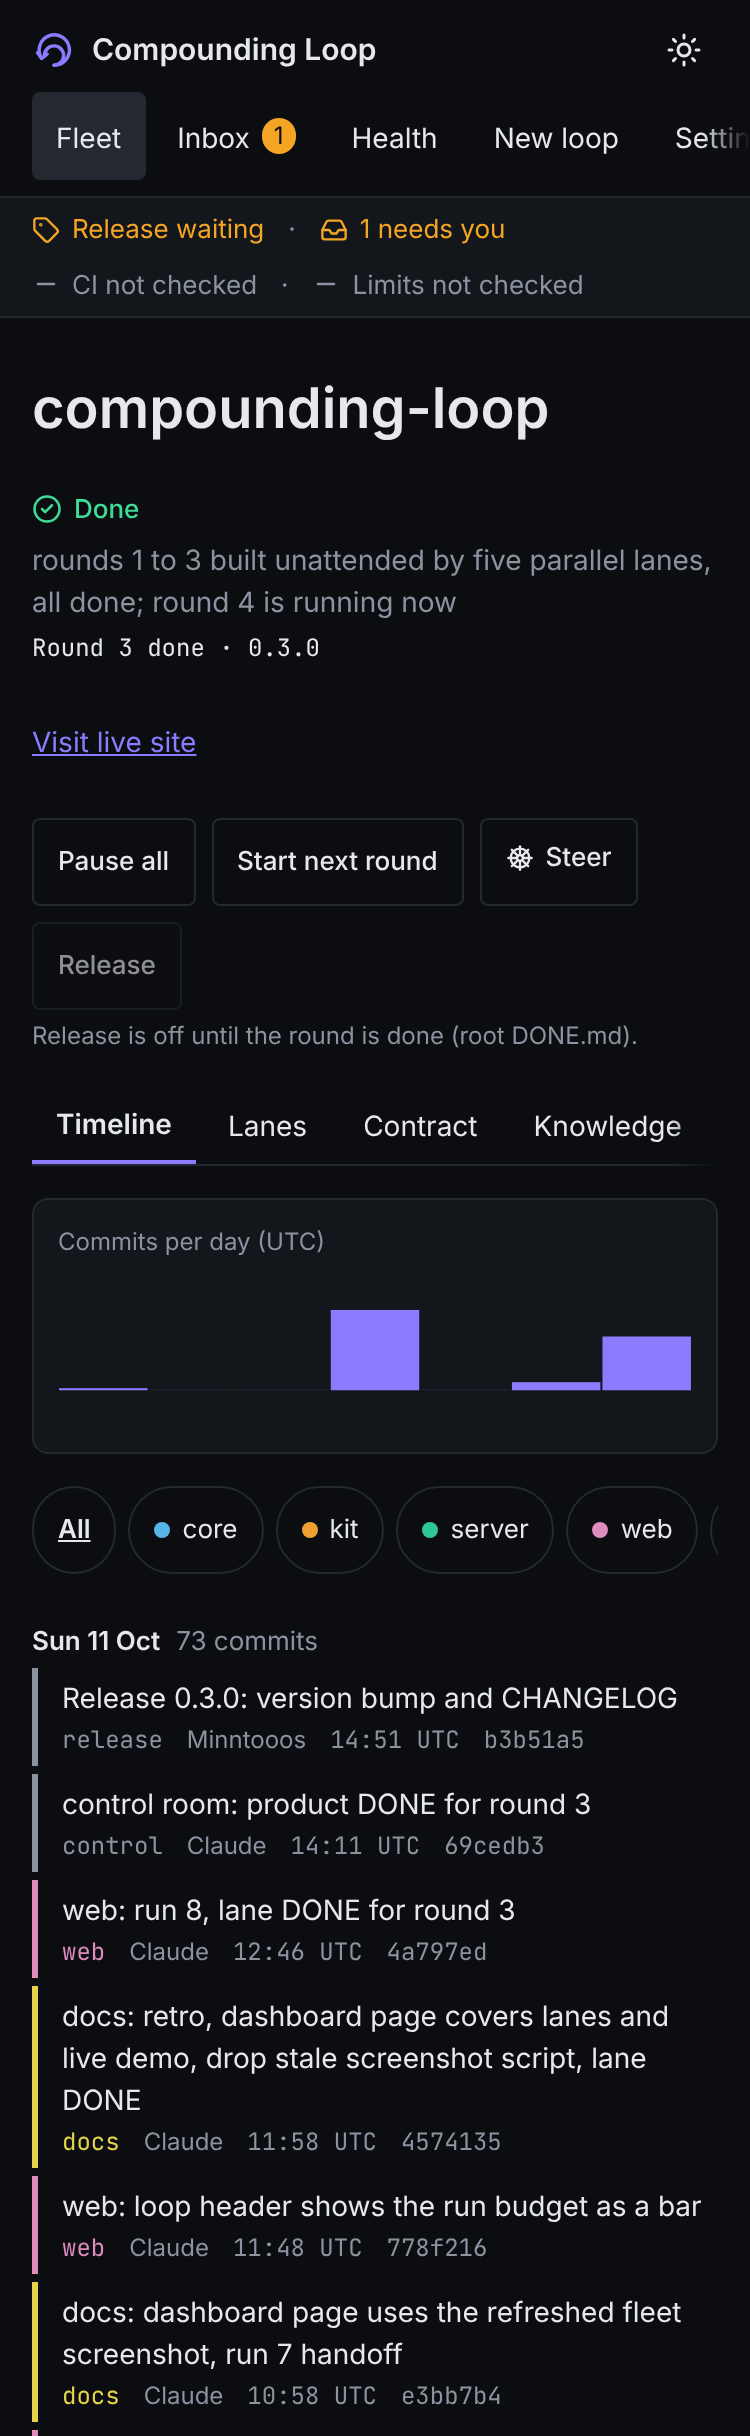
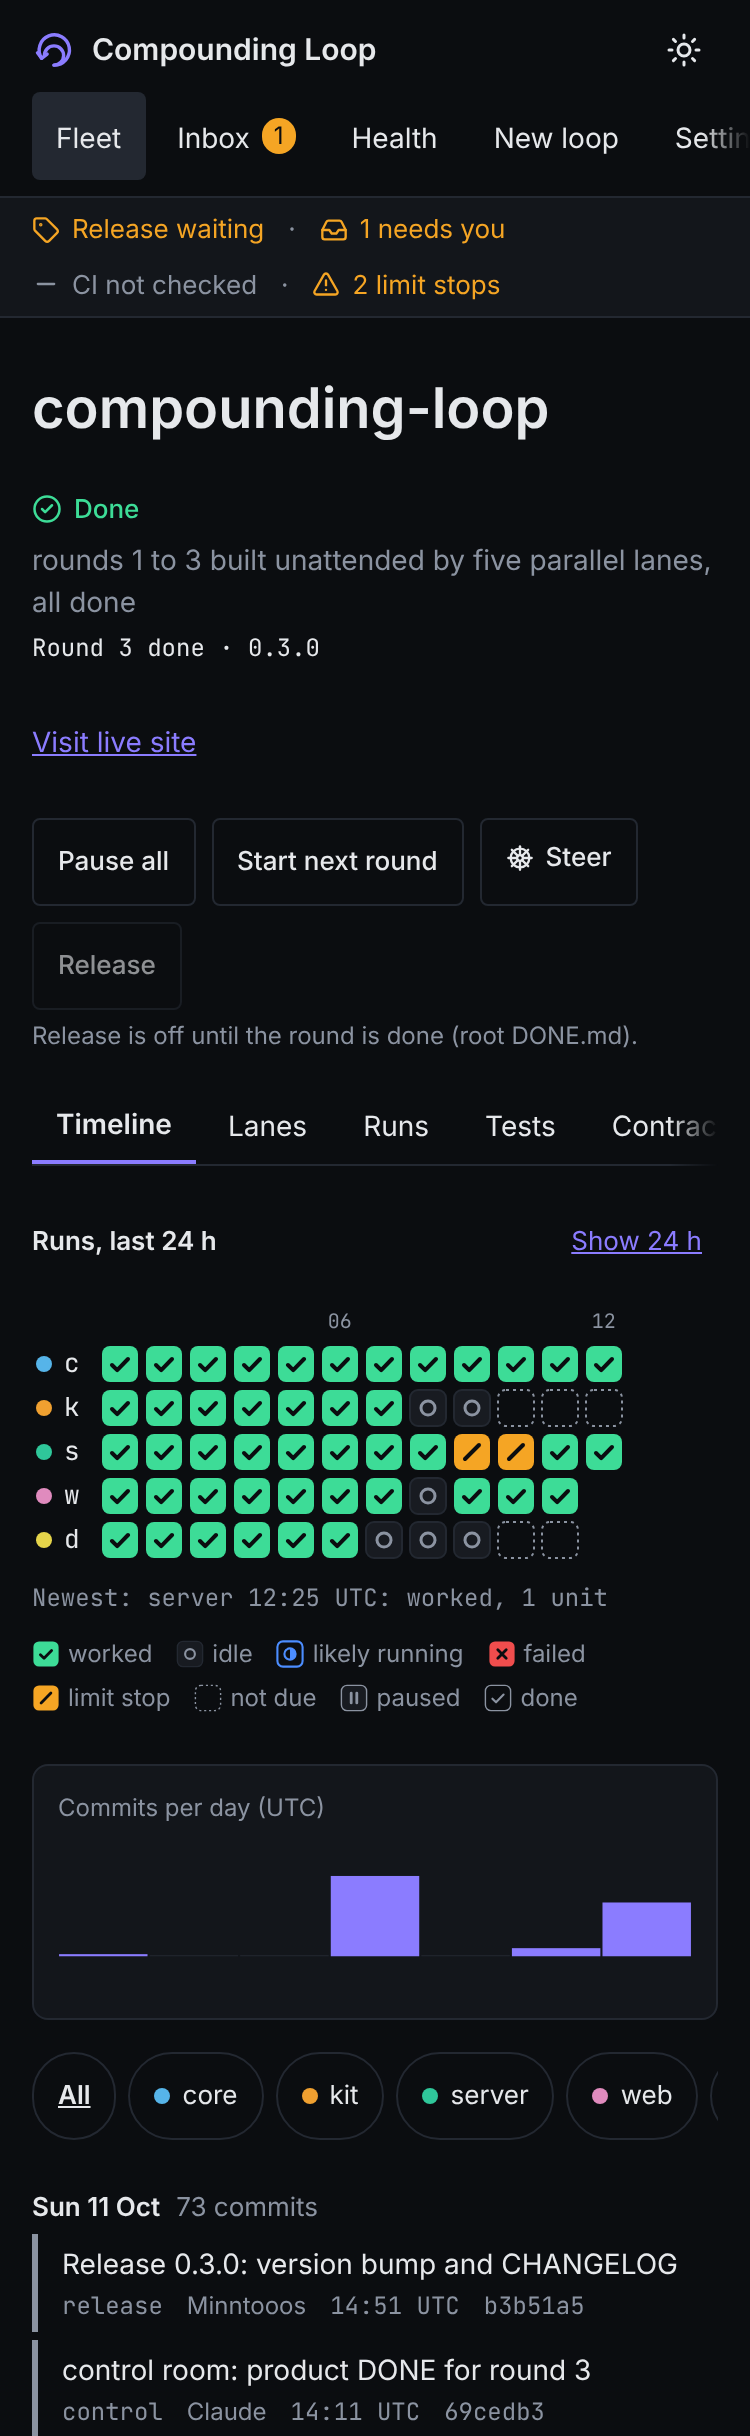
web: docs screenshots show the round 5 cockpit (self Lanes tab with Pace, self Runs tab with heat map), re-shot set
Lane: web

diff --git a/tests/e2e/screenshots.spec.ts b/tests/e2e/screenshots.spec.ts
@@ -9,7 +9,9 @@ import { expect, test, type Page } from '@playwright/test';
 // (IDEA.md Round 5 D). docs owns docs/assets/screens and copies them from there.
 // Design-review sets (before/after, 1440 and 375 px @1x, both themes, full page):
 //   SCREENS=1 SCREENS_DIR=web/design/before npx playwright test screenshots --project=laptop
-const screens: Record<string, string> = { fleet: '/', loop: '/loop/proj2', self: '/loop/compounding-loop', inbox: '/inbox', health: '/health', settings: '/settings', new: '/new' };
+const screens: Record<string, string> = { fleet: '/', loop: '/loop/proj2', self: '/loop/compounding-loop', 'self-lanes': '/loop/compounding-loop', 'self-runs': '/loop/compounding-loop', inbox: '/inbox', health: '/health', settings: '/settings', new: '/new' };
+// Loop tabs have no URL; these shots click one (Lanes: Pace, schedule, steer; Runs: the lane × hour heat map).
+const tabs: Record<string, string> = { 'self-lanes': 'Lanes', 'self-runs': 'Runs' };
 const reviewDir = process.env['SCREENS_DIR'];
 const dir = reviewDir ?? join('web', 'design', 'docs');
 const MAX_BYTES = 400 * 1024;
@@ -51,9 +53,14 @@ for (const shot of shots) {
         const page = await context.newPage();
         // Shoot demo mode as a visitor sees it (welcome strip, snapshot chip): no dashboard server.
         // The self-build loop only exists on a running server (the bundled snapshot is the five sites).
-        if (name !== 'self') await page.route('**/api/health', (route) => route.fulfill({ status: 404, contentType: 'application/json', body: '{}' }));
+        if (!name.startsWith('self')) await page.route('**/api/health', (route) => route.fulfill({ status: 404, contentType: 'application/json', body: '{}' }));
         await page.goto(`/#${route}`);
         await page.waitForLoadState('networkidle');
+        const tab = tabs[name];
+        if (tab) {
+          await page.getByRole('tab', { name: tab }).click();
+          await page.waitForLoadState('networkidle');
+        }
         const path = join(dir, `${name}-${theme}-${shot.size}.png`);
         await shoot(page, shot, path);
         await context.close();
